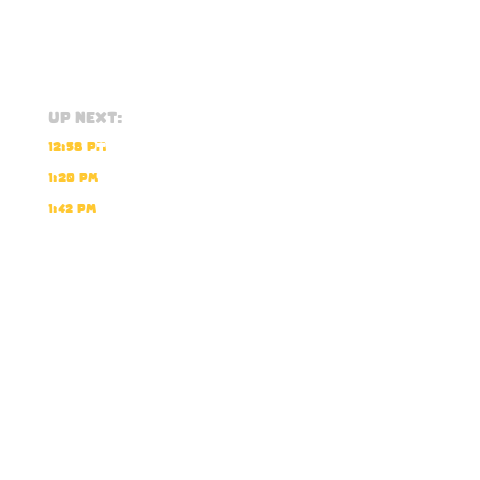
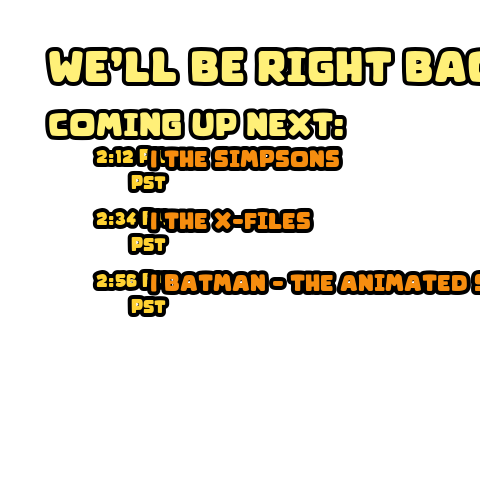
df

Changed region(s): [[0.0938, 0.2188, 0.75, 0.5312], [0.0938, 0.0938, 1.0, 0.1875], [0.1875, 0.5625, 1.0, 0.6875]]

diff --git a/graphics_engine.py b/graphics_engine.py
@@ -1,6 +1,7 @@
 import os
 from PIL import Image, ImageDraw, ImageFont
 import datetime
+import time
 
 class GraphicsEngine:
     def __init__(self, font_path="assets/comiclemon.ttf", resolution=(1920, 1080)):
@@ -21,11 +22,13 @@ class GraphicsEngine:
         SAFE_Y = int(target_height * 0.10)
 
         # Fonts: Sized relative to screen height
-        header_size = int(target_height * 0.046) 
-        show_size = int(target_height * 0.032)
-        time_size = int(target_height * 0.027)
+        header_size = int(target_height * 0.086) 
+        up_size = int(target_height * 0.066)
+        show_size = int(target_height * 0.046)
+        time_size = int(target_height * 0.037)
 
         header_font = ImageFont.truetype(self.font_path, header_size)
+        up_font = ImageFont.truetype(self.font_path, up_size)
         show_font = ImageFont.truetype(self.font_path, show_size)
         time_font = ImageFont.truetype(self.font_path, time_size)
 
@@ -35,32 +38,48 @@ class GraphicsEngine:
 
         # 3. Draw the Header
         header_text = "WE'LL BE RIGHT BACK"
-        draw.text((SAFE_X, SAFE_Y), header_text, font=header_font, fill=(255, 255, 255, 255))
+        draw.text((SAFE_X, SAFE_Y), header_text, font=header_font, fill=(255, 240, 120, 255), stroke_width=4, stroke_fill=(0,0,0,255))
 
         # 4. Calculate Times
         current_time = datetime.datetime.now()
         start_time = current_time + datetime.timedelta(seconds=commercial_duration_sec)
 
+        # --- NEW: Explicitly force the 3-letter abbreviation ---
+        # tm_isdst > 0 means Daylight Saving Time is active (Summer)
+        is_dst = time.localtime().tm_isdst > 0
+        tz_code = "PDT" if is_dst else "PST"
+
         # 5. Draw "UP NEXT:"
         y_offset = SAFE_Y + (line_height * 2)
-        draw.text((SAFE_X, y_offset), "UP NEXT:", font=show_font, fill=(200, 200, 200, 255))
-        y_offset += line_height
+        draw.text((SAFE_X, y_offset), "COMING UP NEXT:", font=up_font, fill=(255, 240, 120, 255),stroke_width=4, stroke_fill=(0,0,0,255))
+        y_offset += (line_height *1.25)
 
         # 6. Draw Shows
         for show_name, duration in upcoming_shows[:3]:
-            time_str = start_time.strftime("%I:%M %p").lstrip("0") 
+            # Attach the hardcoded timezone code to the end
+            time_str = start_time.strftime("%I:%M %p").lstrip("0") + f"\n       {tz_code}"
 
-            # Truncation for very long names
             max_chars = 40
             display_name = (show_name[:max_chars] + '...') if len(show_name) > max_chars else show_name
 
             # Draw Time
-            draw.text((SAFE_X, y_offset), time_str, font=time_font, fill=(255, 200, 50, 255))
+            draw.text((SAFE_X + tab_indent, y_offset), time_str, font=time_font, fill=(255, 210, 50, 255),stroke_width=4, stroke_fill=(0,0,0,255))
             
             # Draw Show Name (Indented)
-            draw.text((SAFE_X + tab_indent, y_offset), display_name, font=show_font, fill=(255, 255, 255, 255))
+            draw.text((SAFE_X + (tab_indent*2), y_offset)," | " + display_name, font=show_font, fill=(246, 141, 15, 255),stroke_width=4, stroke_fill=(0,0,0,255))
 
             start_time += datetime.timedelta(seconds=duration)
-            y_offset += line_height
+            y_offset += (line_height * 2)
 
         img.save(output_path, "PNG")
+
+
+if __name__ == "__main__":
+    engine = GraphicsEngine()
+    fake_shows = [
+        ("Star Trek: The Next Generation", 1320),
+        ("Batman The Animated Series", 1320),
+        ("The Adventures of Pete & Pete", 1320)
+    ]
+    engine.generate_transparent_bumper(fake_shows, 150, "test_bumper.png")
+    print("Test bumper saved to test_bumper.png")

diff --git a/station_manager.py b/station_manager.py
@@ -250,8 +250,16 @@ class TVStationService:
                 while player.get_state() != vlc.State.Ended and self.running:
                     time.sleep(0.1)
 
-                # 6. CLEAR THE OVERLAY before commercials start
-                player.video_set_logo_int(0, 0)
+                # 6. CLEAR THE OVERLAY AND FLUSH BUFFER
+                # Turn off the logo
+                player.video_set_logo_int(0, 0) 
+                
+                # Explicitly stop the player so it drops the background video
+                player.stop() 
+                
+                # Give VLC 0.5 seconds to flush the graphic from the video memory
+                time.sleep(0.5) 
+                
                 print("--- COMMERCIAL BREAK STARTING ---")
             # ----------------------------
 
